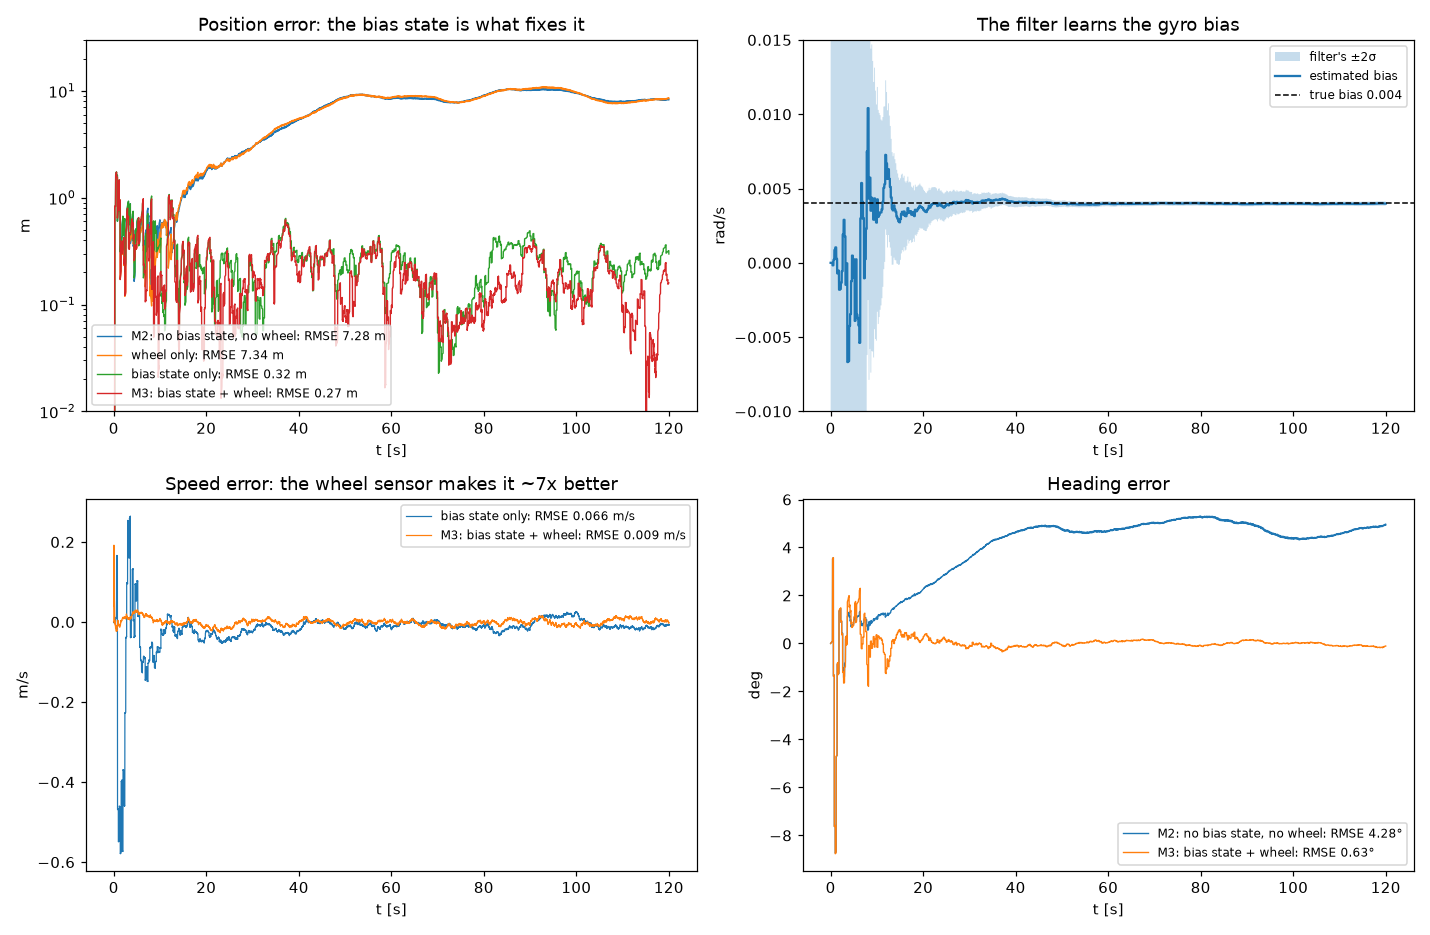
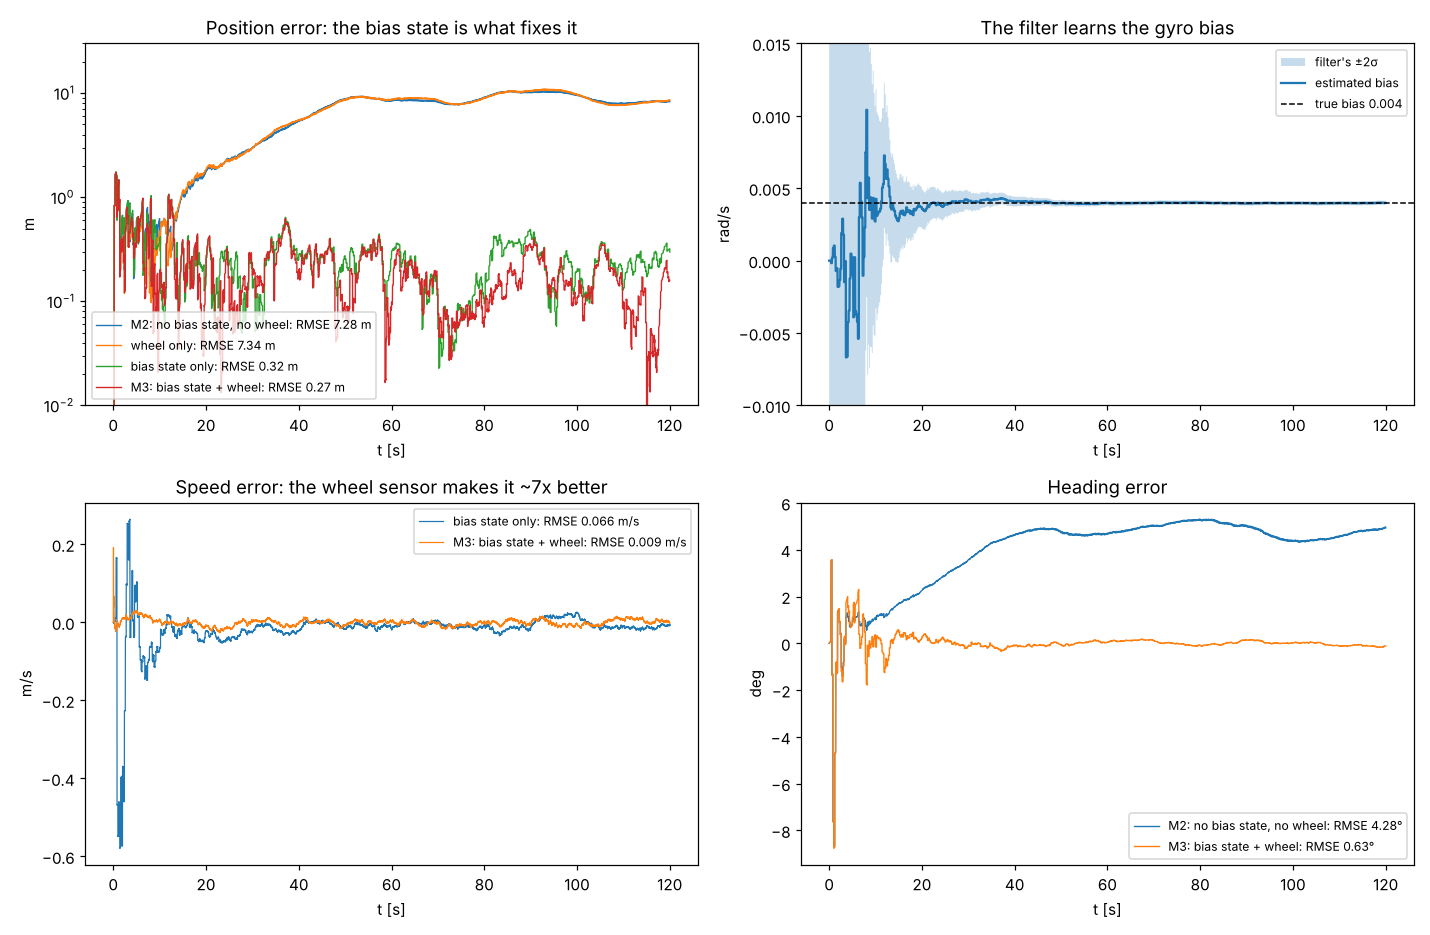
M4: fault injection, experiment results

diff --git a/src/fusionlab/run.py b/src/fusionlab/run.py
@@ -1,10 +1,11 @@
 """Run the filter over a simulated drive and measure it against the truth."""
 from __future__ import annotations
 import argparse
-from dataclasses import dataclass
+from dataclasses import dataclass, field
 import numpy as np
 from .sim import SimConfig, simulate
 from .ekf import EKF, EKFConfig, wrap
+from .faults import SCENARIOS, Fault, apply_faults
 
 # EKFConfig that freezes the bias state at 0: the M2 filter, for comparisons
 NO_BIAS_STATE = dict(p0_bias=0.0, q_bias=0.0)
@@ -21,9 +22,13 @@ class Result:
     bias_std: np.ndarray   # (N,) the filter's 1-sigma on the bias [rad/s]
     nis: list              # (t, nis) per GNSS fix
     wheel_nis: list        # (t, nis) per wheel sample
+    faults: list = field(default_factory=list)   # the injected faults (ground truth)
 
 
-def run_filter(data, ekf_cfg: EKFConfig | None = None, use_wheel: bool = True) -> Result:
+def run_filter(data, ekf_cfg: EKFConfig | None = None, use_wheel: bool = True,
+               faults: list[Fault] | None = None) -> Result:
+    """Run the filter over `data`. `faults` is only recorded for the metrics: the filter
+    never sees it. Apply faults to the data first with faults.apply_faults()."""
     ekf = EKF(data.truth[0], ekf_cfg)
     n = len(data.t)
     est, std, bstd = np.zeros((n, 5)), np.zeros(n), np.zeros(n)
@@ -40,12 +45,12 @@ def run_filter(data, ekf_cfg: EKFConfig | None = None, use_wheel: bool = True) -
             nis.append((t, ekf.update_gnss(data.gnss[gnss_at[i]])))
         est[i], std[i], bstd[i] = ekf.x, ekf.pos_std(), np.sqrt(ekf.P[4, 4])
     err = np.hypot(est[:, 0] - data.truth[:, 0], est[:, 1] - data.truth[:, 1])
-    return Result(data.t, est, data.truth, data.cfg.gyro_bias, err, std, bstd, nis, wnis)
+    return Result(data.t, est, data.truth, data.cfg.gyro_bias, err, std, bstd, nis, wnis, list(faults or []))
 
 
 def metrics(res: Result) -> dict:
     head_err = np.degrees([wrap(a) for a in res.est[:, 2] - res.truth[:, 2]])
-    return {
+    out = {
         "rmse_m": float(np.sqrt(np.mean(res.pos_err**2))),
         "max_err_m": float(res.pos_err.max()),
         "heading_rmse_deg": float(np.sqrt(np.mean(head_err**2))),
@@ -56,22 +61,42 @@ def metrics(res: Result) -> dict:
         "mean_nis": float(np.mean([v for _, v in res.nis])),
         "mean_wheel_nis": float(np.mean([v for _, v in res.wheel_nis])) if res.wheel_nis else float("nan"),
     }
+    # NEW in M4: the same measures inside each fault window and in the 20 s after it
+    for f in res.faults:
+        during = (res.t >= f.t_start) & (res.t <= f.t_end)
+        after = (res.t > f.t_end) & (res.t <= f.t_end + 20.0)
+        out[f"rmse_during_{f.kind}_m"] = float(np.sqrt(np.mean(res.pos_err[during] ** 2)))
+        out[f"max_during_{f.kind}_m"] = float(res.pos_err[during].max())
+        out[f"rmse_after_{f.kind}_m"] = float(np.sqrt(np.mean(res.pos_err[after] ** 2))) if after.any() else float("nan")
+        log = res.wheel_nis if f.sensor == "wheel" else res.nis
+        inside = [v for tt, v in log if f.t_start <= tt <= f.t_end]
+        out[f"max_nis_during_{f.kind}"] = float(max(inside)) if inside else float("nan")
+    return out
+
+
+def run_scenario(name: str, seed: int = 1, ekf_cfg: EKFConfig | None = None, use_wheel: bool = True) -> Result:
+    """Simulate, inject the scenario's faults, run the filter."""
+    faults = SCENARIOS[name]
+    data = apply_faults(simulate(SimConfig(seed=seed)), faults)
+    return run_filter(data, ekf_cfg, use_wheel, faults)
 
 
 if __name__ == "__main__":
     ap = argparse.ArgumentParser(description="Run the filter on one simulated drive")
+    ap.add_argument("--scenario", default="nominal", choices=list(SCENARIOS))
     ap.add_argument("--seed", type=int, default=1)
     ap.add_argument("--bias", type=float, default=None, help="override the true gyro bias [rad/s]")
     ap.add_argument("--no-wheel", action="store_true", help="ignore the wheel-speed sensor")
     ap.add_argument("--no-bias-state", action="store_true", help="freeze the bias state at 0 (the M2 filter)")
     a = ap.parse_args()
     cfg = SimConfig(seed=a.seed) if a.bias is None else SimConfig(seed=a.seed, gyro_bias=a.bias)
-    d = simulate(cfg)
+    faults = SCENARIOS[a.scenario]
+    d = apply_faults(simulate(cfg), faults)
     ekf_cfg = EKFConfig(**NO_BIAS_STATE) if a.no_bias_state else EKFConfig()
-    m = metrics(run_filter(d, ekf_cfg, use_wheel=not a.no_wheel))
-    raw = np.sqrt(np.mean(np.sum((d.gnss - d.truth[d.gnss_idx, :2]) ** 2, axis=1)))
-    print(f"seed {a.seed}, true gyro bias {d.cfg.gyro_bias} rad/s, wheel {'off' if a.no_wheel else 'on'}, "
-          f"bias state {'off' if a.no_bias_state else 'on'}")
-    print(f"  raw GNSS position RMSE : {raw:.2f} m")
+    m = metrics(run_filter(d, ekf_cfg, use_wheel=not a.no_wheel, faults=faults))
+    print(f"scenario {a.scenario}, seed {a.seed}, true gyro bias {d.cfg.gyro_bias} rad/s, "
+          f"wheel {'off' if a.no_wheel else 'on'}, bias state {'off' if a.no_bias_state else 'on'}")
+    for f in faults:
+        print(f"  fault: {f.kind} from {f.t_start:.0f} to {f.t_end:.0f} s, magnitude {f.magnitude}")
     for k, v in m.items():
-        print(f"  {k:24s}: {v:.4f}" if "bias" in k else f"  {k:24s}: {v:.3f}")
+        print(f"  {k:30s}: {v:.4f}" if "bias" in k and "fault" not in k and "during" not in k else f"  {k:30s}: {v:.3f}")

diff --git a/tests/test_faults.py b/tests/test_faults.py
@@ -1,0 +1,91 @@
+"""M4 acceptance tests: fault injection and what each fault does to an unprotected filter."""
+import numpy as np
+import pytest
+from fusionlab.faults import SCENARIOS, Fault, apply_faults
+from fusionlab.run import run_filter, run_scenario, metrics
+from fusionlab.sim import SimConfig, simulate
+
+
+# ---- the injection itself ------------------------------------------------------------
+def test_unknown_fault_raises():
+    # from the reference project
+    with pytest.raises(ValueError):
+        apply_faults(simulate(SimConfig(duration=5)), [Fault("nope", 0, 1)])
+
+
+def test_fault_injection_removes_gnss_in_window():
+    # from the reference project
+    d = simulate(SimConfig(duration=20))
+    f = apply_faults(d, [Fault("gnss_dropout", 5.0, 10.0)])
+    assert len(f.gnss) < len(d.gnss)
+    assert not np.any((f.t[f.gnss_idx] >= 5.0) & (f.t[f.gnss_idx] <= 10.0))
+
+
+def test_jump_moves_fixes_by_its_magnitude_only_inside_the_window():
+    d = simulate(SimConfig(duration=20))
+    f = apply_faults(d, [Fault("gnss_jump", 5.0, 10.0, 40.0)])
+    shift = np.hypot(*(f.gnss - d.gnss).T)
+    inside = (d.t[d.gnss_idx] >= 5.0) & (d.t[d.gnss_idx] <= 10.0)
+    assert np.allclose(shift[inside], 40.0) and np.allclose(shift[~inside], 0.0)
+
+
+def test_drift_grows_linearly_with_time():
+    d = simulate(SimConfig(duration=30))
+    f = apply_faults(d, [Fault("gnss_drift", 10.0, 20.0, 1.0)])
+    shift = np.hypot(*(f.gnss - d.gnss).T)
+    t = d.t[d.gnss_idx]
+    inside = (t >= 10.0) & (t <= 20.0)
+    assert np.allclose(shift[inside], t[inside] - 10.0)      # 1 m/s ramp: 0 m at start, 10 m at the end
+    assert np.allclose(shift[t > 20.0], 0.0)                 # gone after the window
+
+
+def test_wheel_scale_and_gyro_bias_step():
+    d = simulate(SimConfig(duration=20))
+    f = apply_faults(d, [Fault("wheel_scale", 5.0, 10.0, 0.15), Fault("gyro_bias_step", 5.0, 10.0, 0.02)])
+    w = (d.t[d.wheel_idx] >= 5.0) & (d.t[d.wheel_idx] <= 10.0)
+    assert np.allclose(f.wheel[w], 1.15 * d.wheel[w]) and np.allclose(f.wheel[~w], d.wheel[~w])
+    g = (d.t >= 5.0) & (d.t <= 10.0)
+    assert np.allclose(f.gyro[g] - d.gyro[g], 0.02) and np.allclose(f.gyro[~g], d.gyro[~g])
+
+
+def test_faults_never_change_the_truth_or_the_original_data():
+    d = simulate(SimConfig(duration=20))
+    before = d.gnss.copy()
+    f = apply_faults(d, [Fault("gnss_jump", 5.0, 10.0, 40.0)])
+    assert np.array_equal(d.gnss, before)                   # a copy was changed, not the original
+    assert np.array_equal(f.truth, d.truth)                  # ground truth is untouched
+
+
+def test_scenarios_cover_all_five_fault_kinds():
+    kinds = {f.kind for faults in SCENARIOS.values() for f in faults}
+    assert kinds == {"gnss_dropout", "gnss_jump", "gnss_drift", "wheel_scale", "gyro_bias_step"}
+    assert SCENARIOS["nominal"] == []
+
+
+def test_run_scenario_nominal_is_the_plain_filter():
+    a = metrics(run_scenario("nominal", 1))
+    b = metrics(run_filter(simulate(SimConfig(seed=1))))
+    assert a["rmse_m"] == b["rmse_m"]
+
+
+# ---- what the faults do (no fault handling yet) ----------------------------------------
+def test_a_short_dropout_is_harmless_for_a_good_filter():
+    m = metrics(run_scenario("gnss_dropout", 1))
+    assert m["max_during_gnss_dropout_m"] < 2.0               # 20 s on IMU + wheel + learned bias
+
+
+@pytest.mark.parametrize("name", ["gnss_jump", "gnss_drift", "wheel_scale", "gyro_bias_step"])
+def test_measurement_faults_hurt_an_unprotected_filter(name):
+    m = metrics(run_scenario(name, 1))
+    assert m[f"rmse_during_{name}_m"] > 5.0                   # nominal is ~0.3 m
+
+
+@pytest.mark.parametrize("name", ["gnss_jump", "gnss_drift", "wheel_scale", "gyro_bias_step"])
+def test_the_nis_shows_every_measurement_fault(name):
+    m = metrics(run_scenario(name, 1))
+    assert m[f"max_nis_during_{name}"] > 100                  # nominal NIS averages 2: this is the M5 detector
+
+
+def test_the_damage_outlasts_the_fault():
+    m = metrics(run_scenario("gnss_jump", 1))
+    assert m["rmse_after_gnss_jump_m"] > 3.0                  # still metres off 20 s after the jump ended

diff --git a/src/fusionlab/faults.py b/src/fusionlab/faults.py
@@ -1,0 +1,65 @@
+"""M4: fault injection with known ground truth (when, where, how large).
+
+Faults are applied to the recorded sensor streams, so the truth is untouched and every
+later module can be measured against it. The filter is not told about any fault: finding
+them is its job (from M5 on). Five kinds, each a real failure mode:
+
+    gnss_dropout     no fixes at all (tunnel, parking garage)
+    gnss_jump        position jumps by a fixed offset (multipath near buildings)
+    gnss_drift       position slowly ramps away (receiver error growing)
+    wheel_scale      wheel speed reads too high by a factor (slip, wrong tyre radius)
+    gyro_bias_step   the gyro bias jumps (temperature, shock)
+"""
+from __future__ import annotations
+from dataclasses import dataclass, replace
+import numpy as np
+from .sim import SimData
+
+
+@dataclass(frozen=True)
+class Fault:
+    kind: str          # gnss_dropout | gnss_jump | gnss_drift | wheel_scale | gyro_bias_step
+    t_start: float
+    t_end: float
+    magnitude: float = 0.0   # jump [m], drift [m/s], scale error [-], bias [rad/s]
+
+    @property
+    def sensor(self) -> str:
+        return "gnss" if self.kind.startswith("gnss") else ("wheel" if self.kind == "wheel_scale" else "imu")
+
+
+def apply_faults(data: SimData, faults: list[Fault]) -> SimData:
+    """Return a copy of ``data`` with faults applied to the sensor streams."""
+    t = data.t
+    gnss, gnss_idx = data.gnss.copy(), data.gnss_idx.copy()
+    wheel, gyro = data.wheel.copy(), data.gyro.copy()
+    for f in faults:
+        if f.kind == "gnss_dropout":
+            keep = ~((t[gnss_idx] >= f.t_start) & (t[gnss_idx] <= f.t_end))
+            gnss, gnss_idx = gnss[keep], gnss_idx[keep]
+        elif f.kind == "gnss_jump":
+            m = (t[gnss_idx] >= f.t_start) & (t[gnss_idx] <= f.t_end)
+            gnss[m] += np.array([f.magnitude, f.magnitude]) / np.sqrt(2)
+        elif f.kind == "gnss_drift":
+            m = (t[gnss_idx] >= f.t_start) & (t[gnss_idx] <= f.t_end)
+            ramp = (t[gnss_idx][m] - f.t_start) * f.magnitude
+            gnss[m] += np.column_stack([ramp, ramp]) / np.sqrt(2)
+        elif f.kind == "wheel_scale":
+            m = (t[data.wheel_idx] >= f.t_start) & (t[data.wheel_idx] <= f.t_end)
+            wheel[m] *= (1.0 + f.magnitude)
+        elif f.kind == "gyro_bias_step":
+            m = (t >= f.t_start) & (t <= f.t_end)
+            gyro[m] += f.magnitude
+        else:
+            raise ValueError(f"unknown fault kind: {f.kind}")
+    return replace(data, gnss=gnss, gnss_idx=gnss_idx, wheel=wheel, gyro=gyro)
+
+
+SCENARIOS: dict[str, list[Fault]] = {
+    "nominal": [],
+    "gnss_dropout": [Fault("gnss_dropout", 40.0, 60.0)],                 # tunnel, 20 s
+    "gnss_jump": [Fault("gnss_jump", 50.0, 56.0, 40.0)],                 # multipath, 40 m, 6 s
+    "gnss_drift": [Fault("gnss_drift", 40.0, 80.0, 1.0)],                # slow ramp, 1 m/s
+    "wheel_scale": [Fault("wheel_scale", 50.0, 70.0, 0.15)],             # slip/scale, +15 %
+    "gyro_bias_step": [Fault("gyro_bias_step", 50.0, 120.0, 0.02)],      # IMU bias jump
+}

diff --git a/scripts/plot_m4.py b/scripts/plot_m4.py
@@ -1,0 +1,51 @@
+"""M4 check by eye: what each fault does to the filter when nothing protects it.
+
+    python scripts/plot_m4.py            # writes docs/m4_faults.png and prints a table
+"""
+import argparse, pathlib
+import matplotlib
+matplotlib.use("Agg")
+import matplotlib.pyplot as plt
+import numpy as np
+from fusionlab.faults import SCENARIOS
+from fusionlab.run import run_scenario, metrics
+
+ap = argparse.ArgumentParser()
+ap.add_argument("--seed", type=int, default=1)
+a = ap.parse_args()
+nominal = run_scenario("nominal", a.seed)
+names = [n for n in SCENARIOS if n != "nominal"]
+res = {n: run_scenario(n, a.seed) for n in names}
+
+fig, ax = plt.subplots(2, 3, figsize=(15, 8.5))
+for k, n in enumerate(names):
+    r, axk = res[n], ax.flat[k]
+    f = r.faults[0]
+    axk.axvspan(f.t_start, f.t_end, color="0.85", label="fault active")
+    axk.plot(nominal.t, nominal.pos_err, color="0.5", lw=0.8, label="no fault")
+    axk.plot(r.t, r.pos_err, lw=1.0, label=f"with {n}")
+    m = metrics(r)
+    axk.set(title=f"{n} ({f.magnitude:g}): RMSE during {m[f'rmse_during_{n}_m']:.1f} m",
+            xlabel="t [s]", ylabel="position error [m]")
+    axk.legend(fontsize=8, loc="upper left")
+r = res["gnss_jump"]
+f = r.faults[0]
+t, v = np.array(r.nis).T
+axn = ax.flat[5]
+axn.axvspan(f.t_start, f.t_end, color="0.85", label="jump active")
+axn.semilogy(t, v, ".", ms=3, label="GNSS NIS")
+axn.axhline(2, color="k", ls="--", lw=1, label="expected average (2)")
+axn.set(title="The NIS explodes during the jump: the signal M5 will use", xlabel="t [s]", ylabel="NIS")
+axn.legend(fontsize=8)
+fig.tight_layout()
+out = pathlib.Path("docs/m4_faults.png"); out.parent.mkdir(exist_ok=True)
+fig.savefig(out, dpi=100)
+
+print(f"seed {a.seed}, no fault handling (nominal RMSE {metrics(nominal)['rmse_m']:.2f} m)")
+print(f"{'fault':16s} {'RMSE during':>12s} {'max during':>11s} {'RMSE 20 s after':>16s} {'max NIS':>9s}")
+for n in names:
+    m = metrics(res[n])
+    print(f"{n:16s} {m[f'rmse_during_{n}_m']:10.2f} m {m[f'max_during_{n}_m']:9.1f} m "
+          f"{m[f'rmse_after_{n}_m']:14.2f} m {m[f'max_nis_during_{n}']:9.0f}")
+print("(gyro_bias_step lasts to the end of the run, so it has no 'after'; a dropout has no NIS: no fixes)")
+print(f"wrote {out}")

diff --git a/LEARNING.md b/LEARNING.md
@@ -161,3 +161,52 @@ Bias 0.01: 18.2 m and NIS 148. The error grows in proportion to the bias (2.5× 
 - [ ] I can explain every new line in `src/fusionlab/ekf.py`
 - [ ] I answered the questions above without notes
 - [ ] Committed and tagged `m03-bias-wheel`
+## M4 · Fault injection and metrics
+
+**My plan (write before reading faults.py):**
+
+-
+
+**What I learned / differences from the reference:**
+
+-
+
+**Explain it (answer out loud, then write one line each):**
+
+- Why inject faults into recorded data instead of into the simulator's truth?
+- Why is a 20 s GNSS dropout almost harmless (0.5 m), when a 6 s jump costs 13 m?
+- The jump lasts 6 s, but the error is still 7 m 20 s later. Why does the filter recover so slowly?
+  (hint: what is K late in the run, from M2?)
+- Why does the wheel fault hurt the position so much, when the wheel only measures speed?
+  And why is the error still growing at the moment the fault ends?
+- The gyro bias step: the filter does learn the new bias in the end (it reaches ~0.02). Why does it
+  take so long, and what does q_bias have to do with it? (M3)
+- Which fault can the NIS *not* show, and what could detect it instead?
+- After the jump ends, why does the NIS stay above 2 for ~40 s?
+
+**Experiments (predict first, then run):**
+
+- `python -m fusionlab.run --scenario gnss_jump --no-wheel`: does the wheel help or hurt here?
+- Make the jump 4 m instead of 40 m (copy the scenario in Python with `Fault("gnss_jump", 50, 56, 4.0)`
+  and run it with `apply_faults` + `run_filter`). Is the max NIS still far above 2? Is a 4 m jump
+  easy or hard to detect?
+- `EKFConfig(q_bias=1e-4)` on `gyro_bias_step`: does a faster-wandering bias help the filter follow
+  the step? What does it cost on the nominal drive?
+- Run `plot_m4.py --seed 3`: are the numbers similar? Which fault varies most between seeds?
+
+**Experiment results:**
+
+| Experiment | Result | What it shows |
+|---|---|---|
+| `gnss_jump --no-wheel` | 16.0 m during (vs 9.5 m), max 24.8 m; speed error 0.30 m/s (vs 0.012) | the wheel is an independent sensor that limits the damage: without it, the jump corrupts speed too (redundancy) |
+| 4 m jump instead of 40 m | 0.78 m during; max NIS 25.9 (normal fixes reach ~10, M5 gate 13.8) | small faults do little harm and are only just detectable; in-between faults are the hard case |
+| `q_bias=1e-4` on `gyro_bias_step` | 3.51 m during (vs 16.25 m); nominal 0.32 m (vs 0.27 m) | following bias changes faster helps a lot on the fault but costs 18 % normally: no single setting wins both |
+| `plot_m4.py --seed 3` | jump 10.1, drift 7.7, wheel 16.7, gyro 16.1 m (all within ~6 % of seed 1); dropout 0.23 vs 0.53 m | the faults are systematic; only the dropout varies, because its error is random drift |
+
+**Done-checklist**
+
+- [ ] `python -m pytest -q` passes (44 tests), run twice
+- [ ] `python scripts/plot_m4.py` runs and I can explain all six panels
+- [ ] I can explain every line of `src/fusionlab/faults.py` and the new parts of `run.py`
+- [ ] I answered the questions above without notes
+- [ ] Committed and tagged `m04-faults`

diff --git a/README.md b/README.md
@@ -8,7 +8,8 @@ module at a time; each module ends in tests that pass.
 | M1 · Simulator | done |
 | M2 · EKF: predict and GNSS update | done |
 | M3 · Wheel speed and gyro bias | done |
-| M4 · Fault injection and metrics | next |
+| M4 · Fault injection and metrics | done |
+| M5 · NIS gating and the fault monitor | next |
 
 ## M1 · Simulator
 
@@ -84,3 +85,29 @@ python scripts/plot_m3.py
 ```
 
 ![M3](docs/m3_bias_wheel.png)
+
+## M4 · Fault injection
+
+`src/fusionlab/faults.py` injects five real sensor failures into the recorded data, with known
+start, end and size, while the truth stays untouched. The filter is not told: finding them is
+its job from M5 on. `run.py` now also measures the error during and after each fault.
+
+| Fault (scenario) | What it models | RMSE during, mean of 10 seeds |
+|---|---|---|
+| `gnss_dropout` 40–60 s | tunnel: no fixes | 0.67 m |
+| `gnss_jump` 50–56 s, 40 m | multipath near buildings | 9.67 m |
+| `gnss_drift` 40–80 s, 1 m/s | receiver error growing slowly | 7.62 m |
+| `wheel_scale` 50–70 s, +15 % | wheel slip, wrong tyre radius | 16.54 m |
+| `gyro_bias_step` 50–120 s, 0.02 rad/s | IMU bias jump (temperature, shock) | 16.13 m |
+
+Nominal is about 0.3 m. With no fault handling, every fault except the dropout costs 7–17 m,
+and the damage lasts well after the fault ends (7.5 m still, 20 s after a 6 s jump). During
+each of those four, the NIS jumps from its normal ~2 to 340–730: that is the detector M5 uses.
+
+```bash
+python -m pytest -q
+python -m fusionlab.run --scenario gnss_jump
+python scripts/plot_m4.py
+```
+
+![M4](docs/m4_faults.png)
